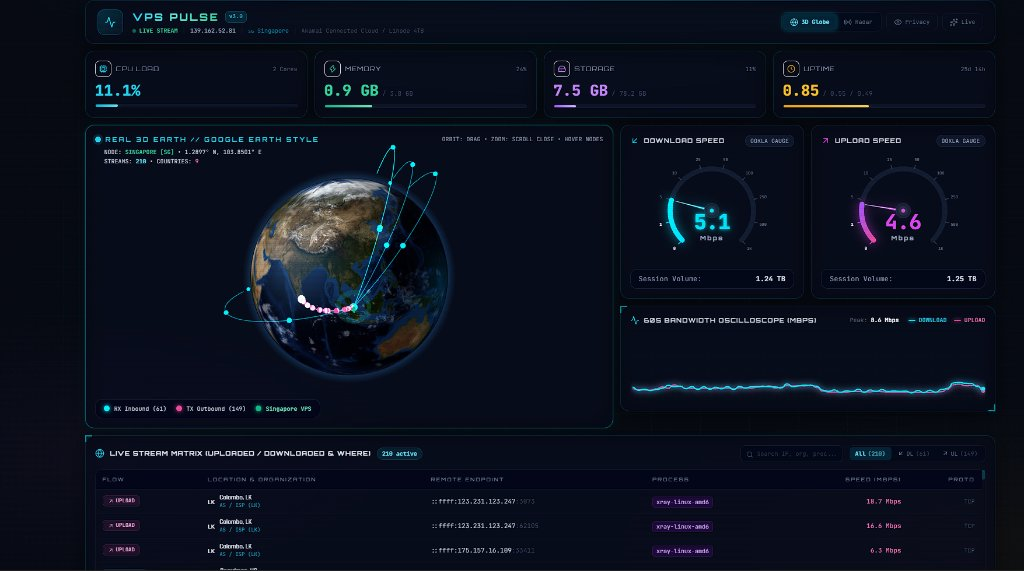
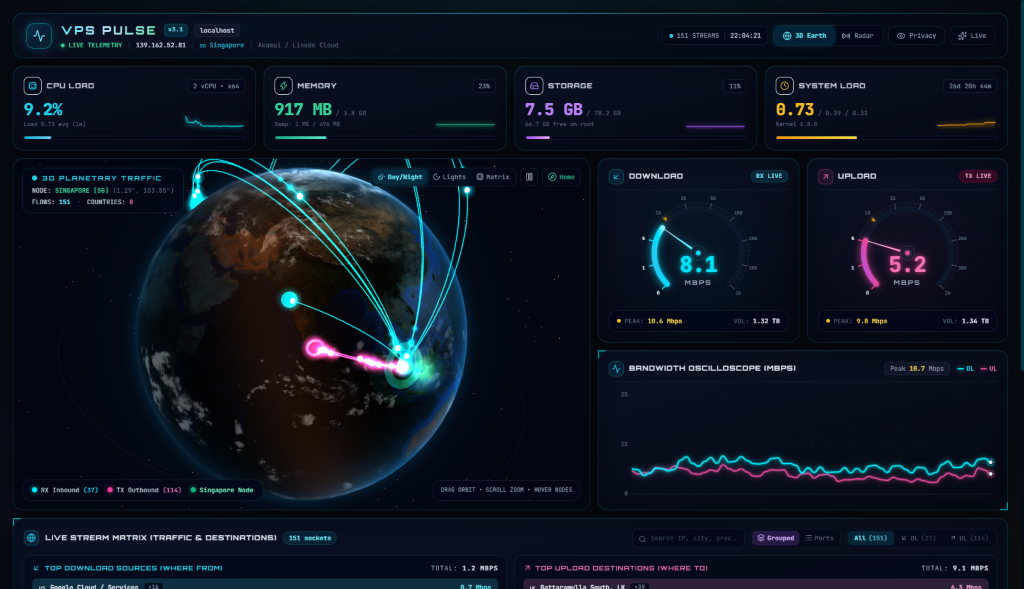
docs: showcase v3.1 visual overhaul screenshots and updated feature guide

diff --git a/README.md b/README.md
@@ -6,7 +6,7 @@
 </p>
 
 <p align="center">
-  <img alt="Release" src="https://img.shields.io/badge/Release-v3.0.0-blue?style=flat-square">
+  <img alt="Release" src="https://img.shields.io/badge/Release-v3.1.0-blue?style=flat-square">
   <img alt="Node.js" src="https://img.shields.io/badge/Node.js-18%2B%20%7C%2020%2B%20LTS-339933?style=flat-square&logo=node.js&logoColor=white">
   <img alt="React" src="https://img.shields.io/badge/React-18-61DAFB?style=flat-square&logo=react&logoColor=black">
   <img alt="Three.js" src="https://img.shields.io/badge/Three.js-WebGL-black?style=flat-square&logo=three.js&logoColor=white">
@@ -23,12 +23,23 @@
 
 ## 📸 Interface Previews
 
+### Day/Night Satellite 3D Earth & Speed Telemetry
 <p align="center">
   <img src="screenshots/vps-pulse-dashboard.png" alt="VPS Pulse Real-Time Dashboard" width="100%">
 </p>
 
+### City Lights Night Mode & Live Burst Tracking
 <p align="center">
-  <img src="screenshots/vps-pulse-earth-globe.png" alt="3D Planetary Geodesic Traffic Engine" width="100%">
+  <img src="screenshots/vps-pulse-earth-globe.png" alt="3D Planetary City Lights Traffic Engine" width="100%">
+</p>
+
+### Orbital Radar Topology & Live Stream Matrix
+<p align="center">
+  <img src="screenshots/vps-pulse-radar.png" alt="Orbital Radar Topology Mode" width="100%">
+</p>
+
+<p align="center">
+  <img src="screenshots/vps-pulse-matrix.png" alt="Top Sources Destinations and Live Socket Matrix" width="100%">
 </p>
 
 ---
@@ -105,31 +116,24 @@ sudo vpspulsectl port 8080
 
 ## ✨ Features
 
-- 🌍 **Photorealistic 3D Earth Visualizer**
-  - High-resolution planetary textures with bump mapping and atmospheric rim glow.
-  - Independent rotating cloud atmospheric layer.
-  - **Great-Circle SLERP Geodesic Arcs**: Calculates true spherical curvature between remote IP endpoints and the VPS node without chord clipping or subterranean sagging.
-  - Interactive camera orbit, zoom controls, and responsive coordinate node tooltips.
+- 🌍 **Day/Night GLSL 3D Earth Visualizer**
+  - Custom WebGL shader blending sunlit satellite imagery, ocean specular glint, sunset twilight terminator, and nocturnal city lights with a 3-mode theme switcher (**Day/Night**, **Lights**, **Matrix**).
+  - Deep-space multi-tint starfield, volumetric Fresnel rim glow, orbital telemetry rings, and drifting cloud atmosphere.
+  - **Persistent Great-Circle SLERP Laser Beams**: Corridor-aggregated trajectories with glowing optical-fiber tubes, white-hot comet photon packets, and continuous 60 FPS motion without WebSocket reset jitter.
+  - **Orbital Radar Mode**: Clean, non-overlapping tactical radar scope grouping corridors by direction and geographic region.
 
-- ⏱ **Precision Speedometer Gauges (Mbps)**
-  - Dual gauge cluster for real-time Inbound (Download) and Outbound (Upload) throughput.
-  - Non-linear logarithmic dial scaling (`0` to `1,000+ Mbps`) for ultra-responsive reading at both low and high bandwidth saturations.
-  - Cumulative session volume tracking in Gigabytes and Terabytes.
+- ⏱ **60 FPS Cockpit Speedometer Dials (Mbps / Gbps)**
+  - Second-order spring-damper physics driving zero-re-render SVG needles for Download (RX) and Upload (TX).
+  - Non-linear logarithmic scale ticks (`0` to `1k+`) with decaying Peak Hold marker and cumulative session transfer totals.
 
-- 📈 **60-Second Real-Time Bandwidth Oscilloscope**
-  - Smooth Bezier-interpolated dual-trace canvas oscilloscope (Cyan for Download, Magenta for Upload).
-  - Dynamic peak scaling and instantaneous rate measurement.
+- 📈 **Auto-Ranging Phosphor Oscilloscope**
+  - Dual-pass bloom waveform renderer with dynamically stepped Y-axis scaling (`2` to `2500 Mbps`), pulsing sonar live trace dots, and an interactive hover scanner crosshair.
 
-- 🖥 **Hardware Vitals HUD**
-  - Real-time CPU core utilization.
-  - Physical RAM consumption and swap state.
-  - Root storage filesystem capacity and mount status.
-  - System uptime counter and Linux 1/5/15-minute load averages.
+- 🖥 **Hardware Vitals HUD & Live Sparklines**
+  - Rolling 30-sample SVG area sparklines embedded inside CPU, Memory (+ Swap), Storage (+ Free Space), and System Load (+ Live Ticking Uptime) cards.
 
-- 🌐 **Live Socket & ASN Matrix**
-  - Inspects active established TCP/UDP sockets directly from the kernel.
-  - Displays remote endpoints, process names, system PIDs, country flags, and geographic locations.
-  - Instant filtering by traffic flow (All, Inbound, Outbound) or search query.
+- 🌐 **Destination Insights & Live Socket Matrix**
+  - Instant "Top Download Sources (Where From)" & "Top Upload Destinations (Where To)" horizontal meters alongside a toggleable **Grouped Endpoint** or **All Ports** live TCP/UDP socket table.
 
 ---
 
